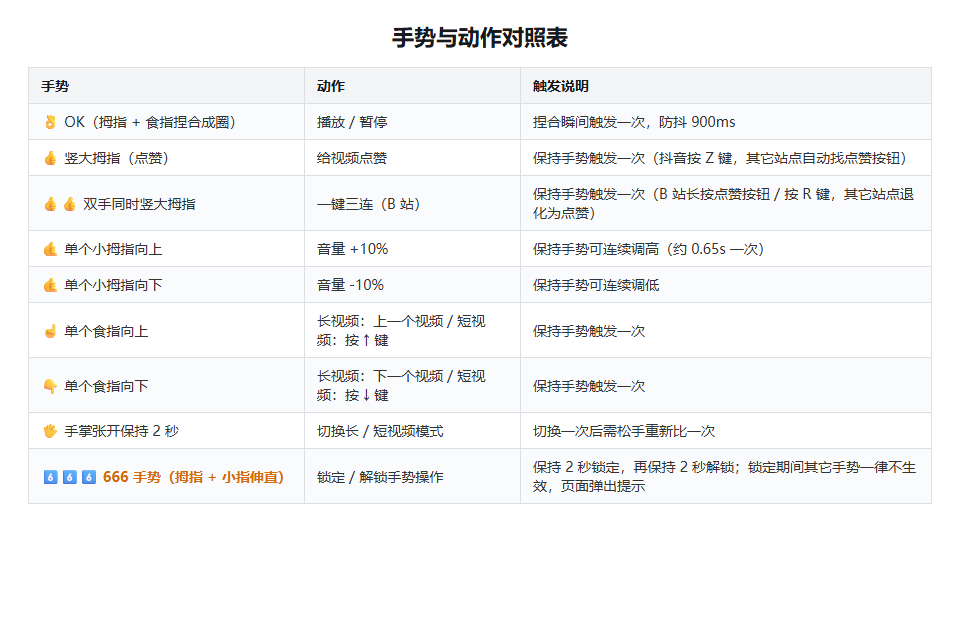
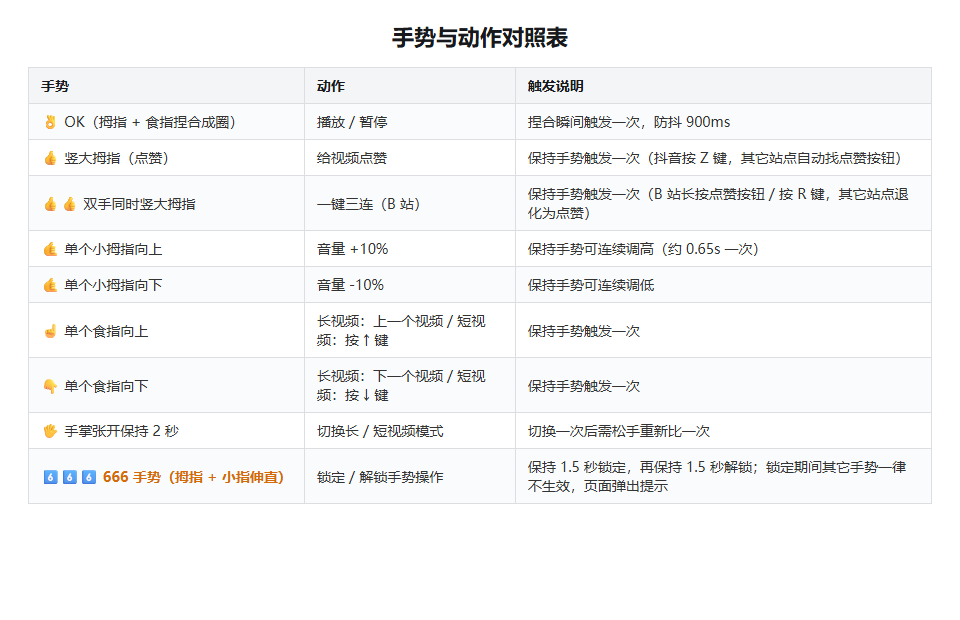
feat: 666手势锁定/解锁时长统一改为1.5秒

diff --git a/float.js b/float.js
@@ -197,7 +197,7 @@ async function onShortToggleChange() {
   setModelStatus(state.shortVideoMode ? '已切换到短视频模式（食指上=下滑，食指下=上滑）' : '已切回长视频模式');
 }
 
-// 电话手势保持 2 秒：锁定 / 解锁引擎
+// 666 手势保持 1.5 秒锁定 / 解锁
 function togglePhoneLock() {
   const next = !state.phoneLocked;
   state.phoneLocked = next;
@@ -700,7 +700,7 @@ function handleRecResult(result) {
   drawLandmarks(lm);
   const pose = GestureMath.classifyPose(lm);
   if (state.phoneLocked && pose.name !== '666') {
-    setGestureLocal('🔒 已锁定', '手势操作已暂停，比出 666 手势保持 2 秒解锁');
+  setGestureLocal('🔒 已锁定', '手势操作已暂停，比出 666 手势保持 1.5 秒解锁');
   } else {
     setGestureLocal(pose.name, pose.detail + '（检测到 ' + hands.length + ' 只手）');
   }
@@ -714,12 +714,12 @@ function handleRecResult(result) {
   const stable = state.stableFrames >= 3;
   const now = Date.now();
 
-  // 电话手势：保持 2 秒锁定 / 解锁引擎（锁定期间其它手势一律不执行操作）
+  // 666 手势：保持 1.5 秒锁定 / 解锁（锁定期间其它手势一律不执行操作）
   if (pose.name === '666') {
     if (state.phoneHoldStart === null) {
       state.phoneHoldStart = now;
-      setGestureLocal('666', '保持 666 手势 2 秒' + (state.phoneLocked ? '解锁' : '锁定') + '…');
-    } else if (!state.phoneHoldTriggered && now - state.phoneHoldStart >= 2000) {
+      setGestureLocal('666', '保持 666 手势 1.5 秒' + (state.phoneLocked ? '解锁' : '锁定') + '…');
+    } else if (!state.phoneHoldTriggered && now - state.phoneHoldStart >= 1500) {
       state.phoneHoldTriggered = true;
       togglePhoneLock();
     }

diff --git a/offscreen.js b/offscreen.js
@@ -331,7 +331,7 @@ function onHandsResults(results) {
     notify();
   }
   if (state.phoneLocked && pose.name !== '666') {
-    setGesture('🔒 已锁定', '手势操作已暂停，比出 666 手势保持 2 秒解锁');
+    setGesture('🔒 已锁定', '手势操作已暂停，比出 666 手势保持 1.5 秒解锁');
   } else {
     setGesture(pose.name, pose.detail + '（检测到 ' + hands.length + ' 只手）');
   }
@@ -345,12 +345,12 @@ function onHandsResults(results) {
   const stable = state.stableFrames >= 3;
   const now = Date.now();
 
-  // 电话手势：保持 2 秒锁定 / 解锁引擎（锁定期间其它手势一律不执行操作）
+  // 666 手势：保持 1.5 秒锁定 / 解锁（锁定期间其它手势一律不执行操作）
   if (pose.name === '666') {
     if (state.phoneHoldStart === null) {
       state.phoneHoldStart = now;
-      setGesture('666', '保持 666 手势 2 秒' + (state.phoneLocked ? '解锁' : '锁定') + '…');
-    } else if (!state.phoneHoldTriggered && now - state.phoneHoldStart >= 2000) {
+      setGesture('666', '保持 666 手势 1.5 秒' + (state.phoneLocked ? '解锁' : '锁定') + '…');
+    } else if (!state.phoneHoldTriggered && now - state.phoneHoldStart >= 1500) {
       state.phoneHoldTriggered = true;
       togglePhoneLock();
     }
@@ -457,7 +457,7 @@ async function toggleShortVideoMode() {
   notify();
 }
 
-// 电话手势保持 2 秒：锁定 / 解锁引擎
+// 666 手势保持 1.5 秒锁定 / 解锁
 function togglePhoneLock() {
   const next = !state.phoneLocked;
   state.phoneLocked = next;

diff --git a/content.js b/content.js
@@ -962,7 +962,7 @@
           status: 'ok',
           toastDuration: 2500,
           toast: action === 'lock'
-            ? '🔒 已锁定：手势操作已暂停（再比 666 手势 2 秒解锁）'
+            ? '🔒 已锁定：手势操作已暂停（再比 666 手势 1.5 秒解锁）'
             : '🔓 已解锁：手势操作已恢复'
         };
       }

diff --git a/README.md b/README.md
@@ -43,7 +43,7 @@
 - 适配 YouTube / B 站「下一集 / 上一集」按钮，其它网站有通用兜底
 - **点赞 / 一键三连**：竖大拇指点赞，双手同时竖大拇指一键三连（B 站长按点赞按钮触发）
 - **长 / 短视频双模式**：手掌张开保持 2 秒一键切换；短视频模式下食指上下直接模拟键盘 ↑/↓ 切视频，兼容抖音网页版等推荐流
-- **666 手势锁定**：比出 666 手势（拇指 + 小指伸直）保持 2 秒，引擎进入锁定状态，期间任何手势都不会操作页面；再比一次 666 手势 2 秒即可解锁
+- **666 手势锁定**：比出 666 手势（拇指 + 小指伸直）保持 1.5 秒，引擎进入锁定状态，期间任何手势都不会操作页面；再比一次 666 手势 1.5 秒即可解锁
 - 页面操作成功后会弹出轻量提示浮层（Shadow DOM 隔离，不污染页面样式）
 - 权限最小化：仅使用 `activeTab + scripting + storage`，不申请全站权限
 
@@ -59,7 +59,7 @@
 | ☝ 单个食指向上 | 长视频：上一个视频 / 短视频：按 ↑ 键（上一个视频） | 保持手势触发一次 |
 | 👇 单个食指向下 | 长视频：下一个视频 / 短视频：按 ↓ 键（下一个视频） | 保持手势触发一次 |
 | 🖐 手掌张开保持 2 秒 | 切换长 / 短视频模式 | 切换一次后需松手重新比一次 |
-| 6⃣6⃣6⃣ 666 手势（拇指 + 小指伸直） | 锁定 / 解锁手势操作 | 保持 2 秒锁定（期间其它手势一律不生效，页面弹出锁定提示），再保持 2 秒解锁 |
+| 6⃣6⃣6⃣ 666 手势（拇指 + 小指伸直） | 锁定 / 解锁手势操作 | 保持 1.5 秒锁定（期间其它手势一律不生效，页面弹出锁定提示），再保持 1.5 秒解锁 |
 > 注意：OK 手势不是靠“声音”识别（浏览器无法安全监听麦克风），而是靠“拇指尖与食指尖捏合成圈”的动作来识别。
 
 **长 / 短视频模式**：
